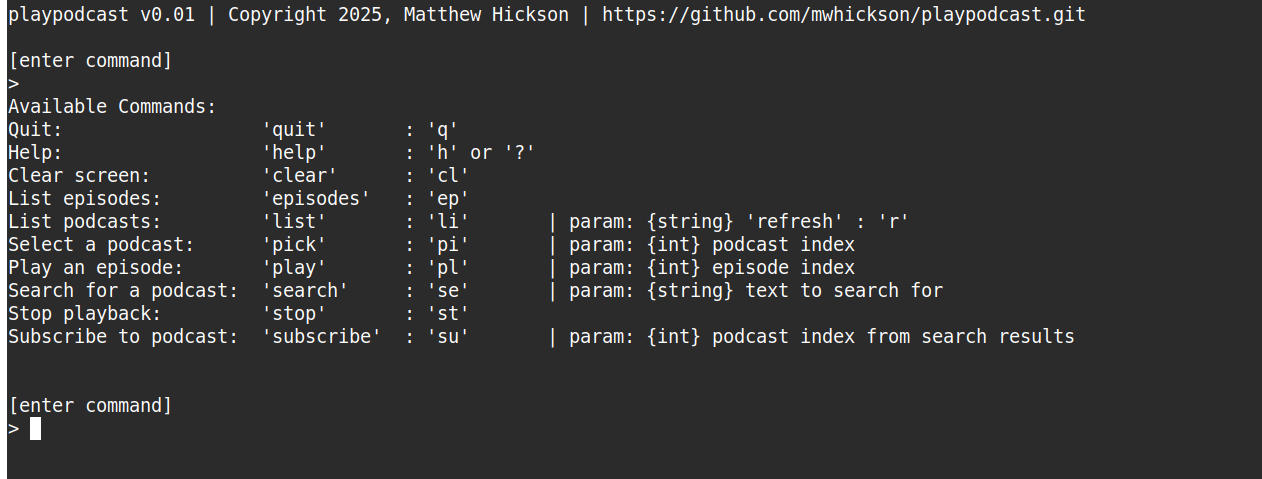
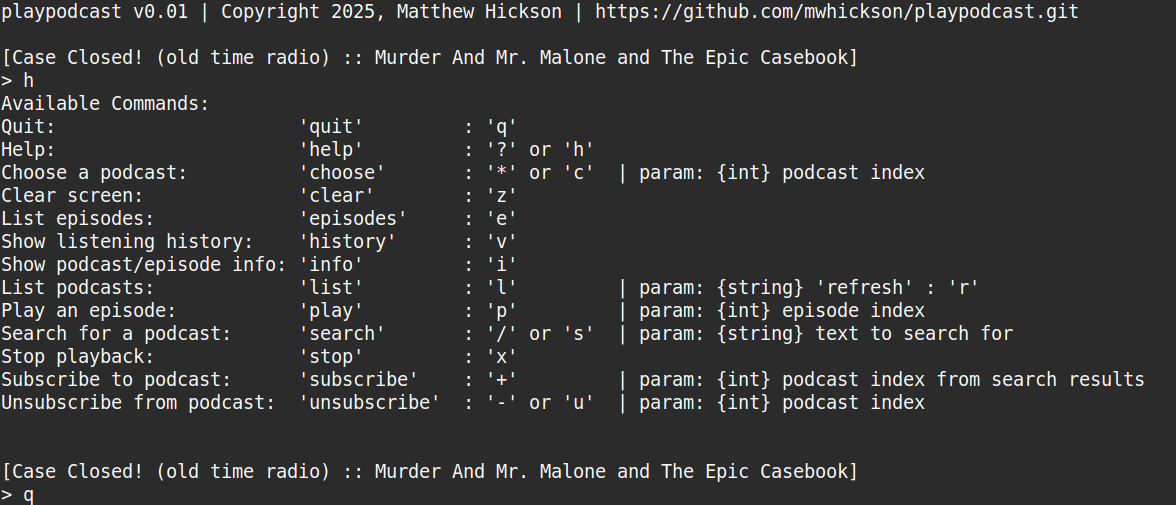
changed up some commands (mostly shortcuts); stubbed in some new commands; updated screenshot

diff --git a/playpodcast/Program.cs b/playpodcast/Program.cs
@@ -37,14 +37,28 @@ internal static class Program
     {
         switch (command.ToLower())
         {
+            case "choose":
+            case "c":
+            case "*":
+                if (options.Count > 0)
+                {
+                    int requestedPodcastIndex = Convert.ToInt32(options.First());
+                    if (requestedPodcastIndex > 0 && requestedPodcastIndex <= podcasts.Count)
+                    {
+                        selectedPodcast = podcasts[requestedPodcastIndex - 1];
+                        ThePrompt = selectedPodcast.Title;
+                    }
+                }
+                break;
+
             case "clear":
-            case "cl":
+            case "z":
                 Console.Clear();
                 DisplayProgramTitle();
                 break;
 
             case "episodes":
-            case "ep":
+            case "e":
                 if (selectedPodcast != null)
                 {
                     episodes = Utility.GetEpisodesFromFeed(selectedPodcast);
@@ -64,8 +78,18 @@ internal static class Program
                 }
                 break;
 
+            case "history":
+            case "v":
+                // TODO:
+                break;
+
+            case "info":
+            case "i":
+                // TODO:
+                break;
+
             case "list":
-            case "li":
+            case "l":
                 if (options.Count > 0)
                 {
                     string listOptions = options.First().ToString();
@@ -96,21 +120,8 @@ internal static class Program
 
                 break;
 
-            case "pick":
-            case "pi":
-                if (options.Count > 0)
-                {
-                    int requestedPodcastIndex = Convert.ToInt32(options.First());
-                    if (requestedPodcastIndex > 0 && requestedPodcastIndex <= podcasts.Count)
-                    {
-                        selectedPodcast = podcasts[requestedPodcastIndex - 1];
-                        ThePrompt = selectedPodcast.Title;
-                    }
-                }
-                break;
-
             case "play":
-            case "pl":
+            case "p":
                 if (options.Count > 0)
                 {
                     int requestedEpisodeIndex = Convert.ToInt32(options.First());
@@ -132,12 +143,13 @@ internal static class Program
                 break;
 
             case "search":
-            case "se":
+            case "s":
+            case "/":
                 // TODO:
                 break;
 
             case "stop":
-            case "st":
+            case "x":
                 if (ThePlayer != null)
                 {
                     ThePlayer.Stop();
@@ -145,7 +157,13 @@ internal static class Program
                 break;
 
             case "subscribe":
-            case "su":
+            case "+":
+                // TODO:
+                break;
+
+            case "unsubscribe":
+            case "u":
+            case "-":
                 // TODO:
                 break;
 
@@ -156,16 +174,19 @@ internal static class Program
                 // TODO: use a better table formatting solution...
                 List<string> commandList = new()
                 {
-                    "Quit:                  'quit'       : 'q'",
-                    "Help:                  'help'       : 'h' or '?'",
-                    "Clear screen:          'clear'      : 'cl'",
-                    "List episodes:         'episodes'   : 'ep'",
-                    "List podcasts:         'list'       : 'li'       | param: {string} 'refresh' : 'r'",
-                    "Select a podcast:      'pick'       : 'pi'       | param: {int} podcast index",
-                    "Play an episode:       'play'       : 'pl'       | param: {int} episode index",
-                    "Search for a podcast:  'search'     : 'se'       | param: {string} text to search for",
-                    "Stop playback:         'stop'       : 'st'",
-                    "Subscribe to podcast:  'subscribe'  : 'su'       | param: {int} podcast index from search results",
+                    "Quit:                      'quit'         : 'q'",
+                    "Help:                      'help'         : '?' or 'h'",
+                    "Choose a podcast:          'choose'       : '*' or 'c'  | param: {int} podcast index",
+                    "Clear screen:              'clear'        : 'z'",
+                    "List episodes:             'episodes'     : 'e'",
+                    "Show listening history:    'history'      : 'v'",
+                    "Show podcast/episode info: 'info'         : 'i'",
+                    "List podcasts:             'list'         : 'l'         | param: {string} 'refresh' : 'r'",
+                    "Play an episode:           'play'         : 'p'         | param: {int} episode index",
+                    "Search for a podcast:      'search'       : '/' or 's'  | param: {string} text to search for",
+                    "Stop playback:             'stop'         : 'x'",
+                    "Subscribe to podcast:      'subscribe'    : '+'         | param: {int} podcast index from search results",
+                    "Unsubscribe from podcast:  'unsubscribe'  : '-' or 'u'  | param: {int} podcast index",
                 };
 
                 Console.WriteLine("Available Commands:");
